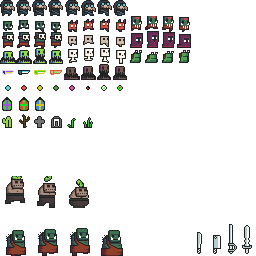
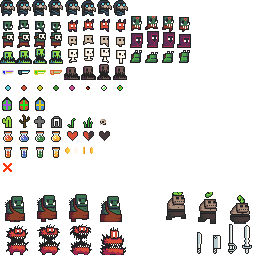
add spawn indicators for enemies

diff --git a/src/enemy/systems.rs b/src/enemy/systems.rs
@@ -84,9 +84,11 @@ pub fn update_enemy_movement(
 
 pub fn spawn_enemies(
     mut commands: Commands,
+    time: Res<Time>,
     handle: Res<GlobalTextureAtlas>,
     player_query: Query<(&Transform, &Health), With<Player>>,
     enemy_query: Query<(), With<Enemy>>,
+    mut indicator_query: Query<(Entity, &mut SpawnIndicator, &mut Sprite)>,
     mut wave: ResMut<Wave>,
 ) {
     if !enemy_query.is_empty() {
@@ -98,54 +100,97 @@ pub fn spawn_enemies(
     }
 
     let (player_transform, health) = player_query.single();
-
     if health.0 == 0 {
         return;
     }
 
-    wave.number += 1;
-    let player_pos = player_transform.translation.truncate();
+    for (entity, mut indicator, mut sprite) in indicator_query.iter_mut() {
+        indicator.timer.tick(time.delta());
+        
+        let alpha = (indicator.timer.elapsed_secs() * 5.0).sin().abs();
+        sprite.color.set_alpha(alpha);
 
-    let num_enemies = calculate_enemies_for_wave(wave.number);
+        if indicator.timer.finished() {
+            commands.entity(entity).despawn();
 
-    for _ in 0..num_enemies {
-        let (x, y) = get_random_position_around(player_pos, 200.0..500.0);
-        let mut position = Vec3::new(x, y, LAYER1);
-        clamp_position(&mut position);
-
-        let enemy = match wave.number {
-            1..=2 => create_basic_enemy(),
-            3..=4 => {
-                if rand::random::<f32>() < 0.5 {
-                    create_trail_enemy()
-                } else {
-                    create_charging_enemy()
-                }
-            }
-            5..=7 => match rand::random::<f32>() {
-                x if x < 0.3 => create_shooter_enemy(),
-                x if x < 0.6 => create_bomber_enemy(),
-                x if x < 0.8 => create_splitting_enemy(),
-                _ => create_trail_enemy(),
-            },
-            8..=9 => create_gurgle_enemy(),
-            _ => {
-                if wave.number % 10 == 0 {
-                    create_midgame_boss_enemy()
-                } else {
-                    match rand::random::<f32>() {
-                        x if x < 0.3 => create_charging_enemy(),
-                        x if x < 0.4 => create_trail_enemy(),
-                        x if x < 0.5 => create_splitting_enemy(),
-                        x if x < 0.7 => create_shooter_enemy(),
-                        x if x < 0.9 => create_bomber_enemy(),
-                        _ => create_gurgle_enemy(),
+            let enemy = match wave.number {
+                1..=2 => create_basic_enemy(),
+                3..=4 => {
+                    if rand::random::<f32>() < 0.5 {
+                        create_trail_enemy()
+                    } else {
+                        create_charging_enemy()
                     }
                 }
-            }
-        };
+                5..=7 => match rand::random::<f32>() {
+                    x if x < 0.3 => create_shooter_enemy(),
+                    x if x < 0.6 => create_bomber_enemy(),
+                    x if x < 0.8 => create_splitting_enemy(),
+                    _ => create_trail_enemy(),
+                },
+                8..=9 => create_gurgle_enemy(),
+                _ => {
+                    if wave.number % 10 == 0 {
+                        create_midgame_boss_enemy()
+                    } else {
+                        match rand::random::<f32>() {
+                            x if x < 0.3 => create_charging_enemy(),
+                            x if x < 0.4 => create_trail_enemy(),
+                            x if x < 0.5 => create_splitting_enemy(),
+                            x if x < 0.7 => create_shooter_enemy(),
+                            x if x < 0.9 => create_bomber_enemy(),
+                            _ => create_gurgle_enemy(),
+                        }
+                    }
+                }
+            };
 
-        enemy.spawn(&mut commands, position, &handle);
+            enemy.spawn(&mut commands, indicator.spawn_position, &handle);
+        }
+    }
+
+    if indicator_query.is_empty() {
+        wave.number += 1;
+        let player_pos = player_transform.translation.truncate();
+        let num_enemies = calculate_enemies_for_wave(wave.number);
+
+        for _ in 0..num_enemies {
+            let (x, y) = get_random_position_around(player_pos, 200.0..500.0);
+            let mut position = Vec3::new(x, y, LAYER1);
+            clamp_position(&mut position);
+
+            commands.spawn((
+                Name::new("SpawnIndicator"),
+                Sprite {
+                    image: handle.image.clone().unwrap(),
+                    texture_atlas: Some(TextureAtlas {
+                        layout: handle.layout_16x16.clone().unwrap(),
+                        index: 160, 
+                    }),
+                    color: Color::srgba(1.0, 1.0, 1.0, 1.0),
+                    ..default()
+                },
+                Transform::from_translation(position)
+                    .with_scale(Vec3::splat(SPRITE_SCALE_FACTOR)),
+                SpawnIndicator {
+                    timer: Timer::from_seconds(2.0, TimerMode::Once),
+                    spawn_position: position,
+                },
+                InGameEntity,
+            ));
+        }
+    }
+}
+
+pub fn update_spawn_indicators(
+    time: Res<Time>,
+    mut indicator_query: Query<(&mut SpawnIndicator, &mut Sprite)>,
+) {
+    for (mut indicator, mut sprite) in indicator_query.iter_mut() {
+        indicator.timer.tick(time.delta());
+        
+        let alpha = (indicator.timer.elapsed_secs() * 5.0).sin().abs();
+        sprite.color.set_alpha(alpha);
     }
 }
 

diff --git a/src/enemy/plugin.rs b/src/enemy/plugin.rs
@@ -4,7 +4,8 @@ use crate::{
         handle_enemy_death, handle_enemy_splitting, handle_exploding_bullets,
         handle_explosion_player_collision, handle_explosions, handle_ranged_movement,
         handle_shooting_abilities, handle_summoning_abilities, handle_trail_abilities,
-        spawn_enemies, update_enemy_bullets, update_enemy_movement, BomberExplosionEvent,
+        spawn_enemies, update_enemy_bullets, update_enemy_movement, update_spawn_indicators,
+        BomberExplosionEvent,
     },
     game_state::GameState,
 };
@@ -35,6 +36,7 @@ impl Plugin for EnemyPlugin {
                 handle_enemy_splitting,
                 handle_summoning_abilities,
                 handle_charge_enemy_flash,
+                update_spawn_indicators,
             )
                 .run_if(in_state(GameState::Combat)),
         );

diff --git a/src/enemy/components.rs b/src/enemy/components.rs
@@ -89,6 +89,12 @@ pub struct ChargeAbility {
 pub struct OriginalEnemyColor(pub Color);
 
 #[derive(Component)]
+pub struct SpawnIndicator {
+    pub timer: Timer,
+    pub spawn_position: Vec3,
+}
+
+#[derive(Component)]
 #[require(InGameEntity, HasLifespan(||HasLifespan::new(std::time::Duration::from_secs_f32(5.0))))]
 pub struct Trail {
     pub damage: u32,
